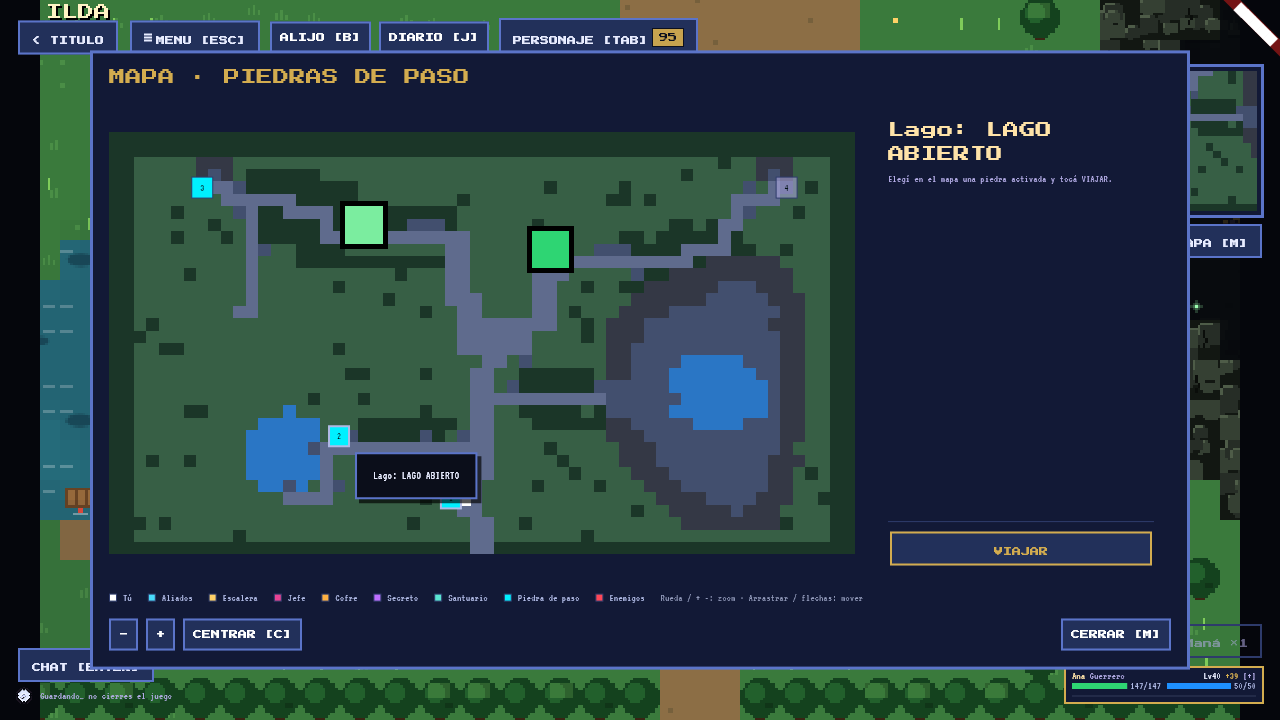
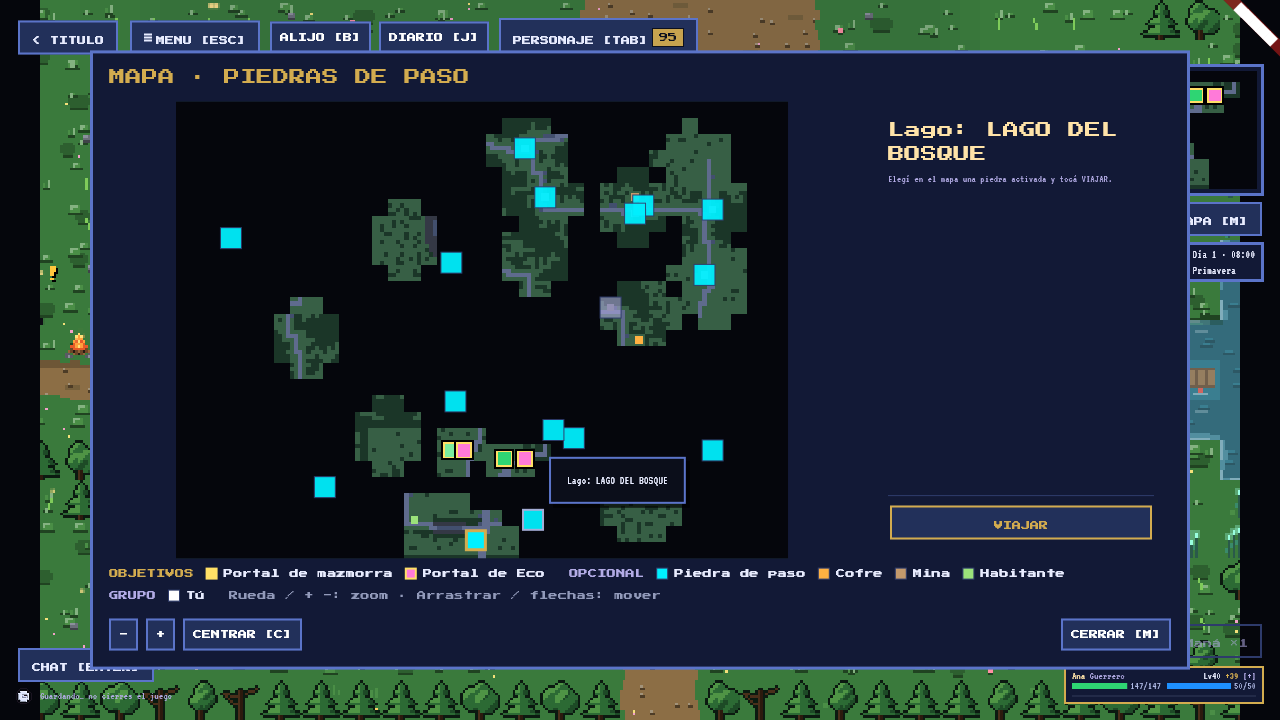
fix(map): marca ! de eventos en el mapa de viaje y piedras de paso sin numeros
- Mapa de viaje: la insignia EVENTO/EVENTOS xn pasa a una marca ! dorada
  (atomo nuevo DsMark), con el mismo tooltip de titulos.
- Mapa de piedras de paso (bioma y mazmorra): sin numeros; las otras piedras
  activas laten suave en cian, la de aca queda fija con marco dorado; hover
  muestra el nombre en todo modo.
- Specs world_events, exploration y biome_regions; tests y previews.

diff --git a/lib/features/world/presentation/hud/full_map.dart b/lib/features/world/presentation/hud/full_map.dart
@@ -90,7 +90,7 @@ class FullMap extends StatefulWidget {
   static const waystoneColor = Color(0xFF00F0FF);
 
   /// Período del parpadeo.
-  static const blinkPeriod = Duration(milliseconds: 700);
+  static const blinkPeriod = Duration(milliseconds: 900);
 
   bool get choosing =>
       (destinations.isNotEmpty || pick != null) && onTravel != null;
@@ -273,6 +273,10 @@ class FullMapState extends State<FullMap> with SingleTickerProviderStateMixin {
 
   late final AnimationController _blink =
       AnimationController(vsync: this, duration: FullMap.blinkPeriod);
+
+  /// Smooth alpha pulse of the other activated stones (0.4 ↔ 1).
+  late final Animation<double> _pulse = Tween(begin: 0.4, end: 1.0)
+      .animate(CurvedAnimation(parent: _blink, curve: Curves.easeInOut));
 
   /// Destino resaltado con Tab (Enter viaja).
   int _sel = 0;
@@ -485,51 +489,64 @@ class FullMapState extends State<FullMap> with SingleTickerProviderStateMixin {
       final picking = _pick != null;
       final dest = picking ||
           (widget.choosing && widget.destinations.any((d) => d.id == poi.id));
-      final origin = poi.id == widget.originId;
       final selected = picking
           ? _pickedPoi?.id == poi.id
           : dest && widget.destinations[_sel].id == poi.id;
-      final hi = selected || origin;
+      // The stone you stand at: steady, gold frame (the goal frame).
+      final here = _isHere(poi);
       final color = on
           ? FullMap.waystoneColor
           : picking
               ? DsColors.textDisabled
               : FullMap.waystoneColor.withValues(alpha: 0.45);
+      // No number (exploration.md § Piedras de paso en el mapa): only the
+      // other activated stones pulse; the name is in the hover tooltip.
       Widget mark = FadeTransition(
-        opacity: Tween(begin: 0.25, end: 1.0).animate(_blink),
+        opacity: on && !here ? _pulse : const AlwaysStoppedAnimation(1.0),
         child: Container(
           width: size,
           height: size,
-          alignment: Alignment.center,
           decoration: BoxDecoration(
             color: color,
             border: Border.all(
-                color: hi ? ProtoColors.ink : ProtoColors.panelBorder,
-                width: hi ? 2 : 1),
+                color: here
+                    ? DsColors.reward
+                    : selected
+                        ? ProtoColors.ink
+                        : ProtoColors.panelBorder,
+                width: here ? 3 : (selected ? 2 : 1)),
           ),
-          child: Text(retroText(_number(poi).toString()),
-              style: const TextStyle(color: Color(0xFF001014))),
         ),
       );
+      if (selected && here) {
+        // Selected and here: an ink ring outside the gold frame.
+        mark = Container(
+            decoration: BoxDecoration(
+                border: Border.all(color: ProtoColors.ink, width: 1)),
+            child: mark);
+      }
+      final name = _stoneName(context, poi);
+      Widget hover(Widget child) => MouseRegion(
+            cursor:
+                dest ? SystemMouseCursors.click : MouseCursor.defer,
+            onEnter: (_) => setState(() => _hoverId = poi.id),
+            onExit: (_) => setState(() {
+              if (_hoverId == poi.id) _hoverId = null;
+            }),
+            child: child,
+          );
       if (dest) {
         mark = Semantics(
           button: true,
-          label: context.t('ui.world.map.travel_to_stone', {'n': _number(poi)}),
-          child: MouseRegion(
-            cursor: SystemMouseCursors.click,
-            onEnter: picking ? (_) => setState(() => _hoverId = poi.id) : null,
-            onExit: picking
-                ? (_) => setState(() {
-                      if (_hoverId == poi.id) _hoverId = null;
-                    })
-                : null,
-            child: GestureDetector(
-              behavior: HitTestBehavior.opaque,
-              onTap: () => picking ? _select(poi) : _travel(poi),
-              child: mark,
-            ),
-          ),
+          label: name,
+          child: hover(GestureDetector(
+            behavior: HitTestBehavior.opaque,
+            onTap: () => picking ? _select(poi) : _travel(poi),
+            child: mark,
+          )),
         );
+      } else {
+        mark = Semantics(label: name, child: hover(mark));
       }
       out.add(Positioned(
           key: ValueKey('full-map-stone-${poi.id}'),
@@ -540,11 +557,19 @@ class FullMapState extends State<FullMap> with SingleTickerProviderStateMixin {
     return out;
   }
 
-  /// Pick mode: the hovered stone's name next to the cursor.
-  List<Widget> _hoverTip() {
-    final pick = _pick;
+  /// The stone the player stands at: the origin of the trip, or (pick
+  /// mode) the one the menu opened on.
+  bool _isHere(MapPoi p) =>
+      p.id == widget.originId || (_pick != null && p.id == _pick!.initial);
+
+  /// Hover name: the pick label, or the generic stone name (dungeons).
+  String _stoneName(BuildContext context, MapPoi p) =>
+      _pick?.label(p) ?? context.t('ui.world.map.legend.waystone');
+
+  /// The hovered stone's name next to the cursor.
+  List<Widget> _hoverTip(BuildContext context) {
     final id = _hoverId;
-    if (pick == null || id == null) return const [];
+    if (id == null) return const [];
     final p = widget.waystones.where((w) => w.$1.id == id).firstOrNull;
     if (p == null) return const [];
     return [
@@ -554,7 +579,8 @@ class FullMapState extends State<FullMap> with SingleTickerProviderStateMixin {
           child: MapHoverTip(
             cursor: _cursor,
             bottomReserve: 0,
-            child: DsTooltipCard(title: pick.label(p.$1), children: const []),
+            child: DsTooltipCard(
+                title: _stoneName(context, p.$1), children: const []),
           ),
         ),
       ),
@@ -628,7 +654,7 @@ class FullMapState extends State<FullMap> with SingleTickerProviderStateMixin {
                     child: GestureDetector(
                       onPanUpdate: (d) => _pan(-d.delta / _cell),
                       child: MouseRegion(
-                       onHover: _pick == null
+                       onHover: widget.waystones.isEmpty
                           ? null
                           : (e) => setState(() => _cursor = e.localPosition),
                        child: Stack(clipBehavior: Clip.hardEdge, children: [
@@ -652,7 +678,7 @@ class FullMapState extends State<FullMap> with SingleTickerProviderStateMixin {
                         ),
                         ..._stoneMarks(context,
                             Minimap.viewRect(a, _view, _center ?? _player)),
-                        ..._hoverTip(),
+                        ..._hoverTip(context),
                       ]),
                       ),
                     ),

diff --git a/test/features/world/travel_event_mark_test.dart b/test/features/world/travel_event_mark_test.dart
@@ -1,0 +1,85 @@
+import 'dart:io';
+import 'dart:ui' as ui;
+
+import 'package:echos_del_tiempo/app/design/design.dart';
+import 'package:echos_del_tiempo/features/world/presentation/panels/world_event_cells.dart';
+import 'package:echos_del_tiempo/game_engine/data/world_events_catalog.dart';
+import 'package:flutter/gestures.dart';
+import 'package:flutter/rendering.dart';
+import 'package:flutter_test/flutter_test.dart';
+import 'package:material_ui/material_ui.dart';
+
+import '../../real_fonts.dart';
+
+// world_events.md § 6: en el mapa de viaje, los lugares con eventos
+// llevan una marca "!" compacta con los títulos en el tooltip.
+
+const _place = 'pueblo';
+
+String get _defId => kWorldEvents.events.first.id;
+
+WorldEventsState _state(int n) => WorldEventsState(active: [
+      for (var i = 0; i < n; i++)
+        ActiveWorldEvent(_defId, biome: _place, start: i, end: 99),
+    ]);
+
+Widget _app(WorldEventsState s, {GlobalKey? boundary}) => MaterialApp(
+    home: Scaffold(
+        backgroundColor: DsColors.surface,
+        body: Center(
+            child: RepaintBoundary(
+                key: boundary,
+                child: Padding(
+                  padding: const EdgeInsets.all(12),
+                  child: Builder(
+                      builder: (c) =>
+                          worldEventBadge(c, s, _place) ?? const SizedBox()),
+                )))));
+
+void main() {
+  setUpAll(loadRealFonts);
+
+  testWidgets('marca "!" en vez de EVENTO, con tooltip de los títulos',
+      (tester) async {
+    await tester.pumpWidget(_app(_state(1)));
+    final mark = find.byKey(const ValueKey('travel-event-$_place'));
+    expect(mark, findsOneWidget);
+    expect(find.byType(DsMark), findsOneWidget);
+    expect(find.text('!'), findsOneWidget);
+    expect(find.textContaining('EVENTO'), findsNothing);
+    final title = kWorldEvents.def(_defId)!.title.text;
+    final mouse = await tester.createGesture(kind: PointerDeviceKind.mouse);
+    await mouse.addPointer(location: Offset.zero);
+    await mouse.moveTo(tester.getCenter(mark));
+    await tester.pumpAndSettle();
+    expect(find.text(title), findsOneWidget);
+    await mouse.removePointer();
+    await tester.pump();
+  });
+
+  testWidgets('varios eventos: una sola marca "!"', (tester) async {
+    await tester.pumpWidget(_app(_state(2)));
+    expect(find.text('!'), findsOneWidget);
+    expect(find.textContaining('EVENTOS'), findsNothing);
+  });
+
+  testWidgets('sin eventos no hay marca', (tester) async {
+    await tester.pumpWidget(_app(const WorldEventsState()));
+    expect(find.byType(DsMark), findsNothing);
+  });
+
+  // PREVIEW=1 flutter test test/features/world/travel_event_mark_test.dart
+  testWidgets('preview PNG', (tester) async {
+    final key = GlobalKey();
+    await tester.pumpWidget(_app(_state(1), boundary: key));
+    await tester.runAsync(() async {
+      final ro =
+          key.currentContext!.findRenderObject()! as RenderRepaintBoundary;
+      final img = await ro.toImage(pixelRatio: 4);
+      final bytes = await img.toByteData(format: ui.ImageByteFormat.png);
+      final f = File('docs/preview/travel_event_mark.png');
+      f.parent.createSync(recursive: true);
+      f.writeAsBytesSync(bytes!.buffer.asUint8List());
+    });
+  }, skip: Platform.environment['PREVIEW'] != '1');
+}

diff --git a/test/features/world/waystone_travel_map_test.dart b/test/features/world/waystone_travel_map_test.dart
@@ -1,4 +1,6 @@
+import 'package:echos_del_tiempo/app/design/design.dart';
 import 'package:echos_del_tiempo/app/theme/retro_theme.dart';
+import 'package:flutter/gestures.dart';
 import 'package:echos_del_tiempo/core/settings/game_settings.dart';
 import 'package:echos_del_tiempo/core/settings/settings_providers.dart';
 import 'package:echos_del_tiempo/features/combat/presentation/game_sprites.dart';
@@ -193,19 +195,49 @@ void main() {
       final c = await _field(tester, reduceMotion: reduce);
       final st = _stones(c);
       await _useStone(tester, c, st[0]);
+      await _useStone(tester, c, st[1]);
+      // Standing at st[1]: M opens the map choosing from it.
       await tester.sendKeyEvent(LogicalKeyboardKey.keyM);
       await tester.pump();
-      final fade = tester.widget<FadeTransition>(find.descendant(
-          of: find.byKey(ValueKey('full-map-stone-${st[0].id}')),
-          matching: find.byType(FadeTransition)));
-      final a = fade.opacity.value;
+      FadeTransition fadeOf(MapPoi p) => tester.widget<FadeTransition>(
+          find.descendant(
+              of: find.byKey(ValueKey('full-map-stone-${p.id}')),
+              matching: find.byType(FadeTransition)));
+      final other = fadeOf(st[0]);
+      final here = fadeOf(st[1]);
+      final a = other.opacity.value;
       await tester.pump(FullMap.blinkPeriod ~/ 2);
-      final b = fade.opacity.value;
+      final b = other.opacity.value;
       if (reduce) {
         expect((a, b), (1.0, 1.0));
       } else {
         expect(a, isNot(b));
       }
+      // The stone you stand at never pulses and wears the gold frame.
+      expect(here.opacity.value, 1.0);
+      final box = tester.widget<Container>(find
+          .descendant(
+              of: find.byKey(ValueKey('full-map-stone-${st[1].id}')),
+              matching: find.byType(Container))
+          .last);
+      final border = (box.decoration! as BoxDecoration).border! as Border;
+      expect(border.top.color, DsColors.reward);
+      // No numbers on the markers.
+      for (final p in st) {
+        expect(
+            find.descendant(
+                of: find.byKey(ValueKey('full-map-stone-${p.id}')),
+                matching: find.byType(Text)),
+            findsNothing);
+      }
+      // Hover names the stone.
+      final mouse = await tester.createGesture(kind: PointerDeviceKind.mouse);
+      addTearDown(mouse.removePointer);
+      await mouse.addPointer(location: Offset.zero);
+      await mouse.moveTo(tester
+          .getCenter(find.byKey(ValueKey('full-map-stone-${st[0].id}'))));
+      await tester.pump();
+      expect(find.byKey(const ValueKey('full-map-stone-tip')), findsOneWidget);
     });
   }
 }

diff --git a/lib/app/design/ds_components.dart b/lib/app/design/ds_components.dart
@@ -50,6 +50,20 @@ class DsBadge extends StatelessWidget {
   }
 }
 
+/// Marca de aviso compacta: el "!" dorado de los NPC con novedades
+/// (DsColors.reward), como átomo de UI (mapa de viaje, avisos). El
+/// motivo va en el tooltip de quien la usa.
+class DsMark extends StatelessWidget {
+  const DsMark({super.key, this.glyph = '!'});
+
+  final String glyph;
+
+  @override
+  Widget build(BuildContext context) => Text(glyph,
+      textAlign: TextAlign.center,
+      style: DsText.title(DsColors.reward).copyWith(height: 1));
+}
+
 /// Una pestaña: texto y, opcional, [badge] adentro a la derecha.
 class DsTab {
   const DsTab(this.label, {this.badge, this.key, this.badgeKey});

diff --git a/lib/features/world/presentation/panels/world_event_cells.dart b/lib/features/world/presentation/panels/world_event_cells.dart
@@ -94,12 +94,9 @@ Widget? worldEventBadge(BuildContext context, WorldEventsState s, String place) 
   final titles = [
     for (final a in here) kWorldEvents.def(a.def)?.title.text ?? a.def
   ];
-  return DsBadge(
-    here.length == 1
-        ? context.t('ui.town.events.badge')
-        : context.t('ui.town.events.badge_n', {'n': here.length}),
-    key: ValueKey('travel-event-$place'),
-  ).tip(titles.join(' · '));
+  // Marca "!" compacta (§ 6); los títulos en el tooltip.
+  return DsMark(key: ValueKey('travel-event-$place'))
+      .tip(titles.join(' · '));
 }
 
 /// RUMOR badge on the travel map: a place an event NPC told [player]

diff --git a/docs/specs/exploration.md b/docs/specs/exploration.md
@@ -552,11 +552,19 @@ build, chat plegado) como `DsToast`. Mismo orden, mismas teclas, misma
   sigue. - **Piedras de paso en el mapa** (v0.20.6, worldgen.md § 11.4): las
   piedras descubiertas (`poiSeen`) se marcan con un cuadro de color vivo
   (`FullMap.waystoneColor` = `#00F0FF`; sin activar, al 45%; lado
-  `max(22, celda × 1.6)` px) con su
-  número en el orden del piso, que **parpadea** (opacidad 0.25 ↔ 1, ciclo
-  de `FullMap.blinkPeriod` = 700 ms ida y vuelta). Con la opción
-  **Reducir movimiento** (`GameSettings.reduceMotion`) quedan fijas a
-  opacidad 1. La leyenda `Piedra de paso` usa el mismo color.
+  `max(22, celda × 1.6)` px) **sin número** (desde v0.49.10: los números
+  no se leían ni decían nada). Las piedras activadas que no son la de
+  acá **laten** suave (opacidad 0.4 ↔ 1, curva ease-in-out, ciclo de
+  `FullMap.blinkPeriod` = 900 ms ida y vuelta); son widgets encima del
+  minimapa, así que la niebla cacheada no se repinta. La piedra donde
+  está el jugador (origen del viaje, o la de apertura del menú de
+  piedras) queda **fija** con el **marco dorado** de 3 px
+  (`DsColors.reward`, el de los objetivos). La elegida (Tab / clic) lleva
+  borde tinta de 2 px (si además es la de acá, un anillo tinta por fuera
+  del dorado). Pasar el mouse sobre cualquier piedra muestra su nombre
+  (tooltip `full-map-stone-tip`; en mazmorra, `Piedra de paso`). Con la
+  opción **Reducir movimiento** (`GameSettings.reduceMotion`) quedan
+  fijas a opacidad 1. La leyenda `Piedra de paso` usa el mismo color.
 - **Modo "elegir destino"**: se entra con **E** junto a una piedra
   activada (si hay otra activada) o con **M** / `MAPA [M]` estando junto
   a una piedra activada (`SessionController.travelOrigin`). Decisión: M

diff --git a/docs/specs/world_events.md b/docs/specs/world_events.md
@@ -256,8 +256,10 @@ Líneas es-AR (BORRADOR):
 
 - **Aviso:** cuando aparece un evento nuevo en el pueblo recibido, cada
   par agrega al chat su `notice` en su idioma.
-- **Mapa de viaje:** en cada lugar con eventos activos, una insignia
-  `EVENTO` (o `EVENTOS ×n`) con tooltip de los títulos.
+- **Mapa de viaje:** en cada lugar con eventos activos, una marca
+  compacta `!` dorada (átomo `DsMark`, el mismo aviso de los NPC con
+  novedades) con tooltip de los títulos (uno o varios, separados por
+  ` · `). Ya no se muestra el texto `EVENTO`/`EVENTOS ×n`.
 - **DIARIO → EVENTOS:** subpestaña nueva del DIARIO (J): grilla de los
   eventos activos con el detalle a la derecha (título, categoría, lugar,
   días que quedan, cuerpo y, si corresponde, la grieta, la misión con su

diff --git a/docs/specs/biome_regions.md b/docs/specs/biome_regions.md
@@ -120,7 +120,9 @@ Elipse con borde irregular (dos armónicos), radios entre
   entrada está activa siempre.
 - Menú (v0.48.5): el **mapa grande de la región** (`FullMap`, el mismo
   de las piedras de paso de las mazmorras, worldgen.md § 11.4) en *modo
-  elegir* (`FullMapPick`): las piedras marcadas con su número
+  elegir* (`FullMapPick`): las piedras marcadas sin número (las otras
+  activas laten, la de acá fija con marco dorado: exploration.md §
+  Piedras de paso en el mapa)
   (activas en cian; desde el protocolo 90 las no activadas solo aparecen, en
   gris "Sin descubrir", si están en terreno ya descubierto:
   biome_exploration.md § 11.4); pasar el mouse
